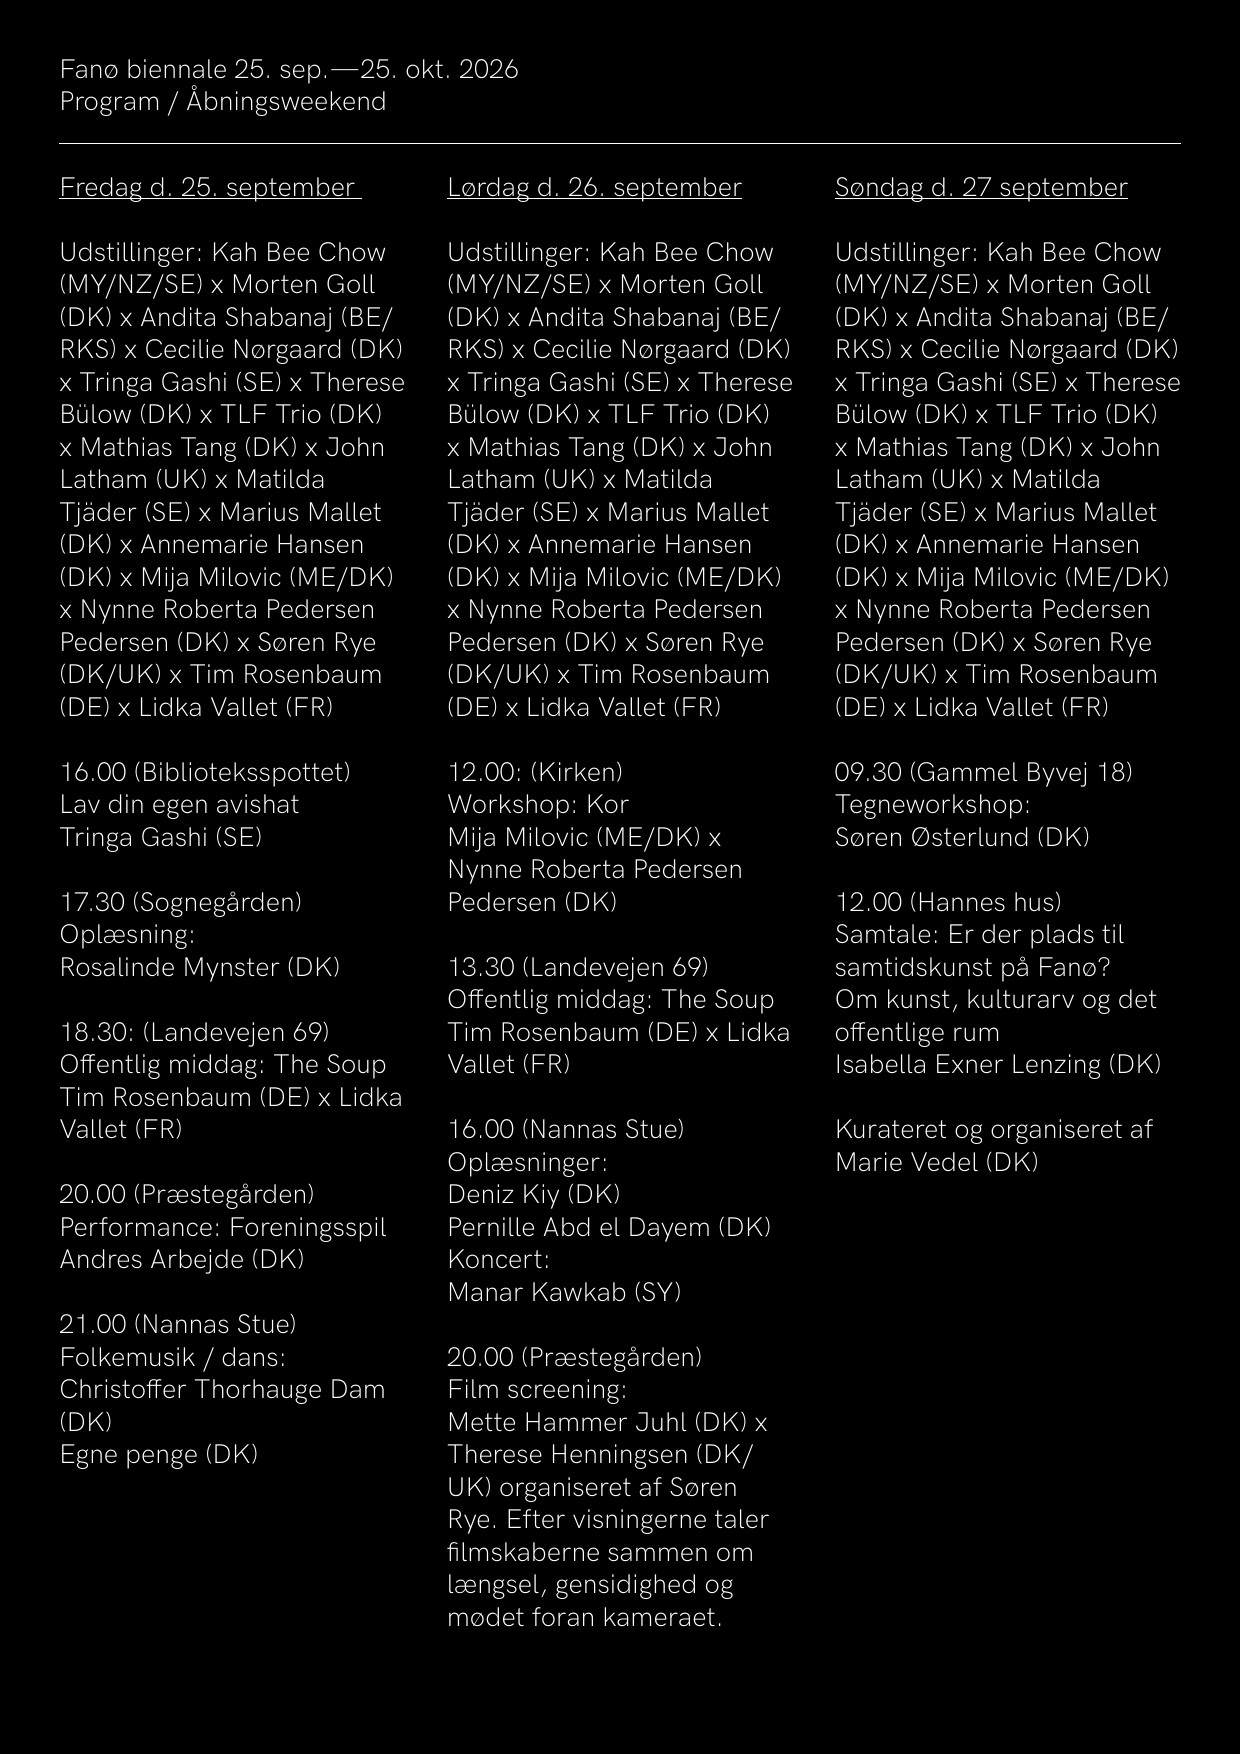
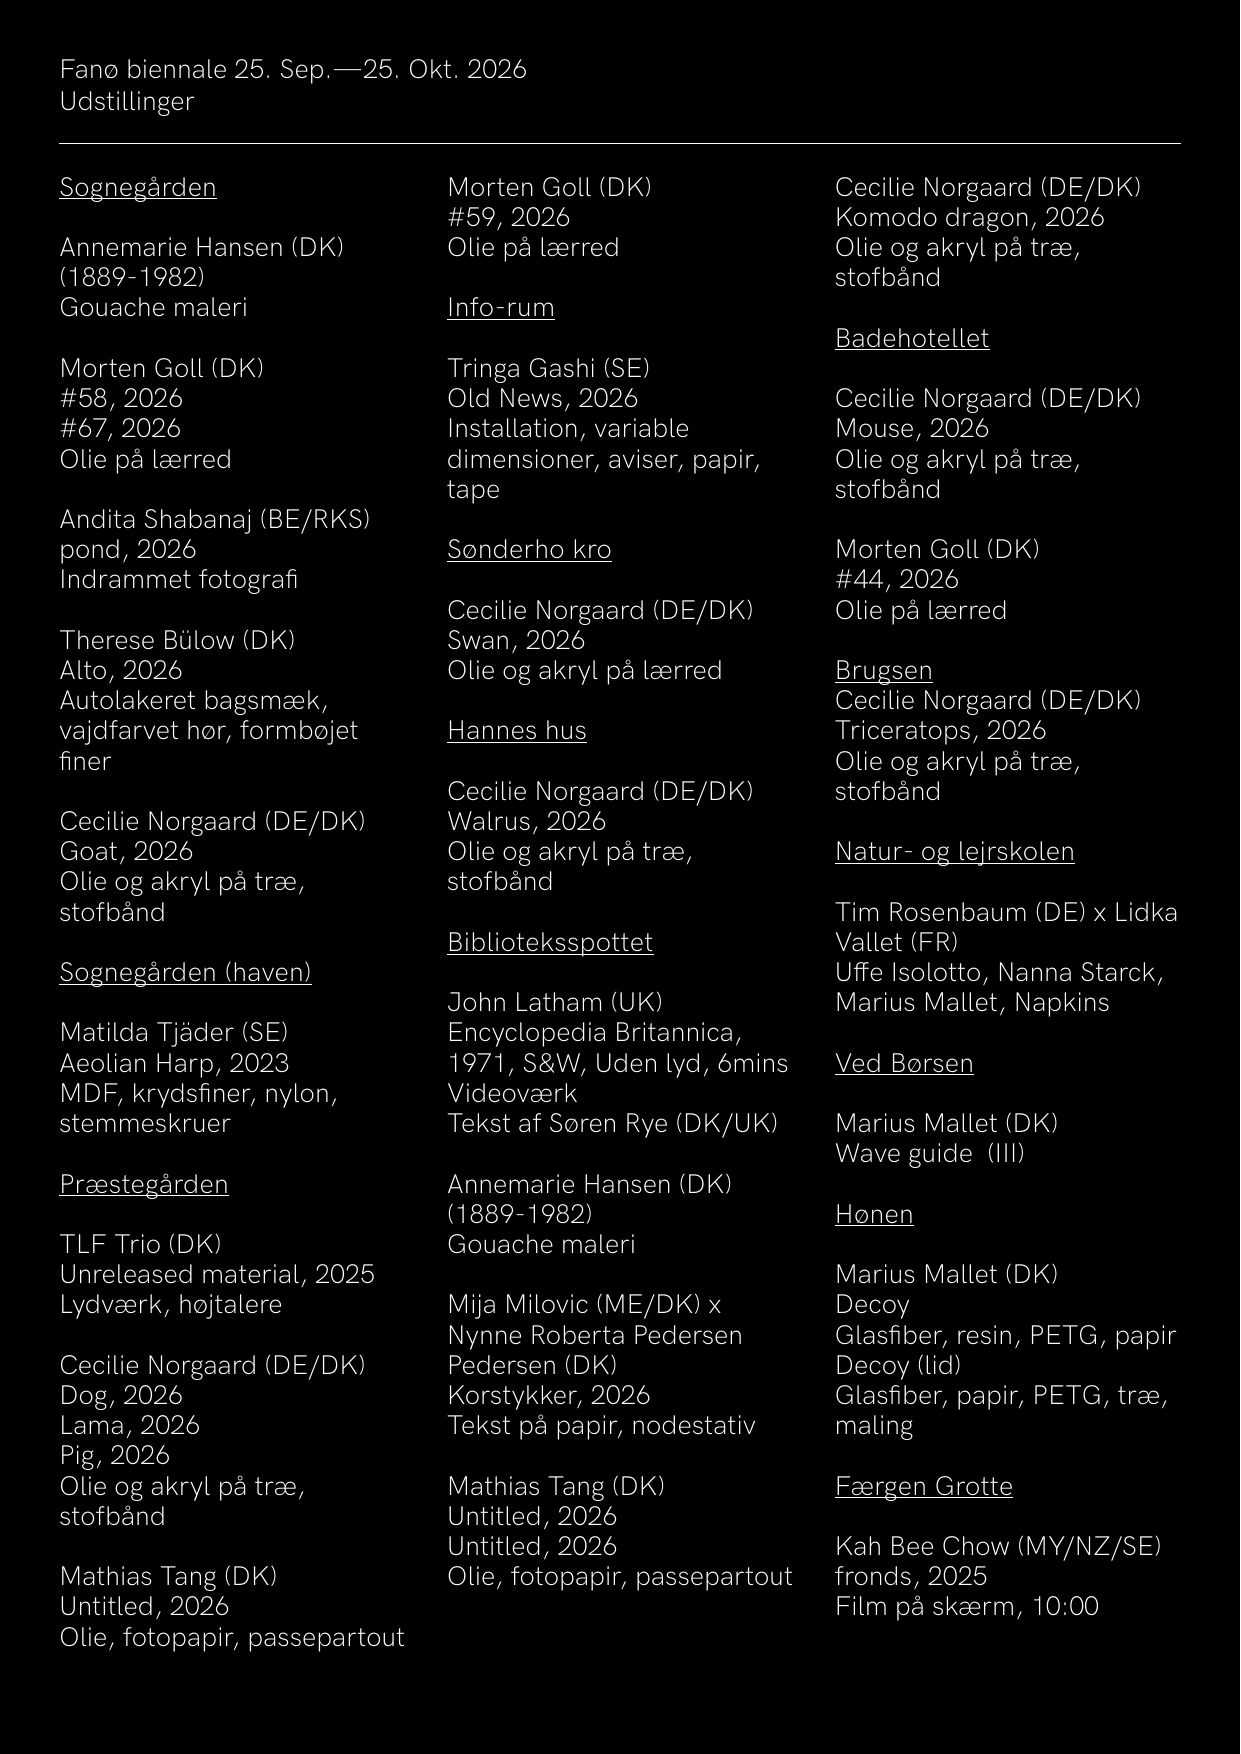
Expand program to 4 pages

diff --git a/index.html b/index.html
@@ -6,6 +6,8 @@
 <title>Fano Biennale</title>
 <link rel="preload" as="image" href="media/program-1.png">
 <link rel="preload" as="image" href="media/program-2.png">
+<link rel="preload" as="image" href="media/program-3.png">
+<link rel="preload" as="image" href="media/program-4.png">
 <style>
   html, body {
     margin: 0;
@@ -69,8 +71,10 @@
   </div>
 
   <main id="program" hidden>
-    <img src="media/program-1.png" alt="Fanø Biennale 2026 – Program, åbningsweekend">
-    <img src="media/program-2.png" alt="Fanø Biennale 2026 – Programme, opening weekend">
+    <img src="media/program-1.png" alt="Fanø Biennale 2026 – Program page 1">
+    <img src="media/program-2.png" alt="Fanø Biennale 2026 – Program page 2">
+    <img src="media/program-3.png" alt="Fanø Biennale 2026 – Program page 3">
+    <img src="media/program-4.png" alt="Fanø Biennale 2026 – Program page 4">
   </main>
 
   <script>
